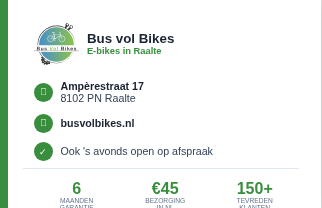
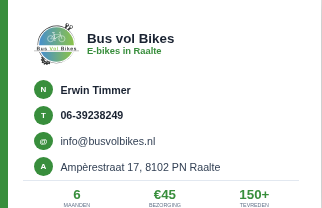
Visitekaartje: contactgegevens toegevoegd (Erwin Timmer, 06-39238249, info@busvolbikes.nl)

Changed region(s): [[0.0621, 0.375, 0.9317, 1.0]]

diff --git a/visitekaartje.html b/visitekaartje.html
@@ -139,7 +139,7 @@
             display: flex;
             flex-direction: column;
             justify-content: center;
-            gap: 2.5mm;
+            gap: 1.8mm;
             padding-left: 3mm;
         }
         
@@ -158,7 +158,8 @@
             align-items: center;
             justify-content: center;
             color: white;
-            font-size: 7pt;
+            font-size: 6pt;
+            font-weight: bold;
             flex-shrink: 0;
         }
         
@@ -175,25 +176,25 @@
         .usp-footer {
             display: flex;
             justify-content: space-around;
-            padding-top: 3mm;
+            padding-top: 2mm;
             border-top: 0.5px solid #e2e8f0;
-            margin-top: 2mm;
+            margin-top: 1mm;
             padding-left: 3mm;
         }
-        
+
         .usp-item {
             text-align: center;
         }
-        
+
         .usp-number {
-            font-size: 12pt;
+            font-size: 10pt;
             font-weight: 800;
             color: #388e3c;
             line-height: 1;
         }
-        
+
         .usp-label {
-            font-size: 5pt;
+            font-size: 4pt;
             color: #64748b;
             text-transform: uppercase;
         }
@@ -243,24 +244,30 @@
         
         <div class="contact-info">
             <div class="contact-row">
-                <div class="contact-icon">📍</div>
+                <div class="contact-icon">N</div>
                 <div class="contact-text">
-                    <strong>Ampèrestraat 17</strong><br>
-                    8102 PN Raalte
+                    <strong>Erwin Timmer</strong>
                 </div>
             </div>
             
             <div class="contact-row">
-                <div class="contact-icon">🌐</div>
+                <div class="contact-icon">T</div>
                 <div class="contact-text">
-                    <strong>busvolbikes.nl</strong>
+                    <strong>06-39238249</strong>
                 </div>
             </div>
             
             <div class="contact-row">
-                <div class="contact-icon">✓</div>
+                <div class="contact-icon">@</div>
                 <div class="contact-text">
-                    Ook 's avonds open op afspraak
+                    info@busvolbikes.nl
+                </div>
+            </div>
+            
+            <div class="contact-row">
+                <div class="contact-icon">A</div>
+                <div class="contact-text">
+                    Ampèrestraat 17, 8102 PN Raalte
                 </div>
             </div>
         </div>
